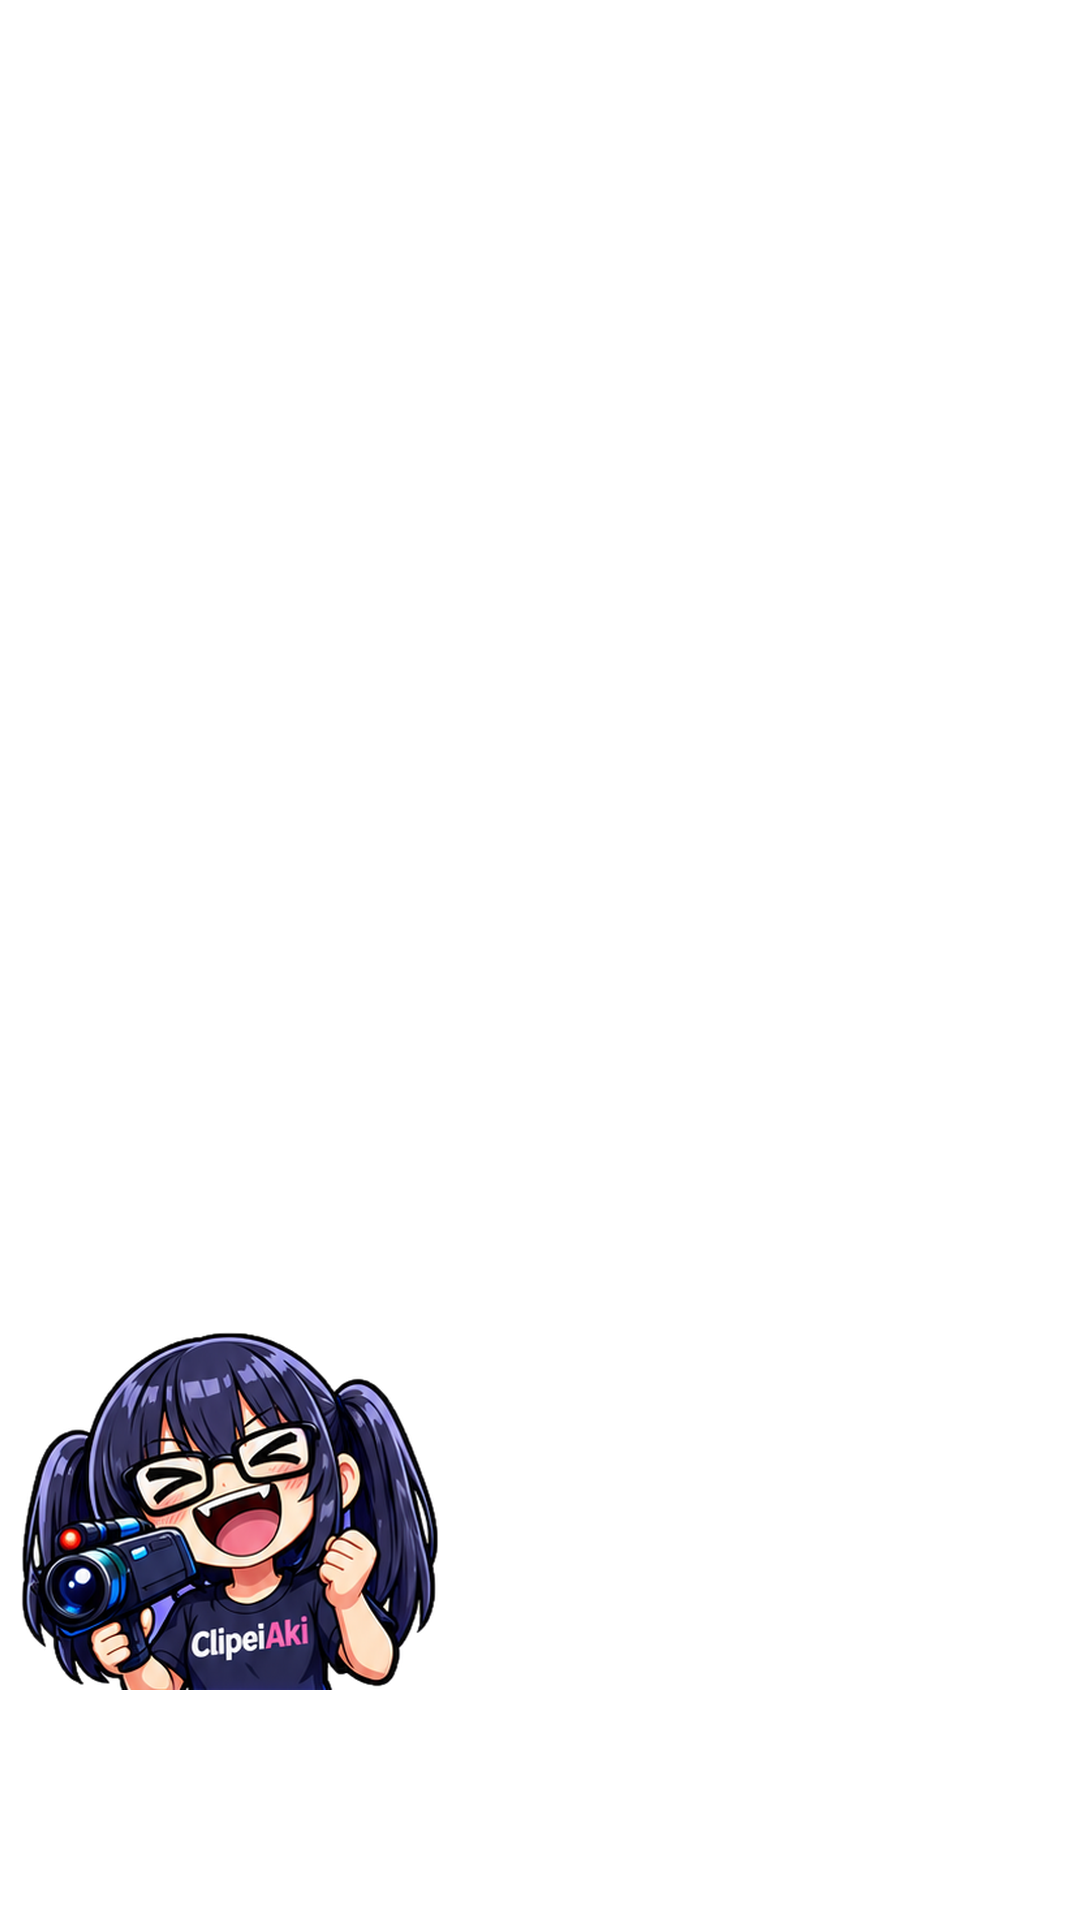
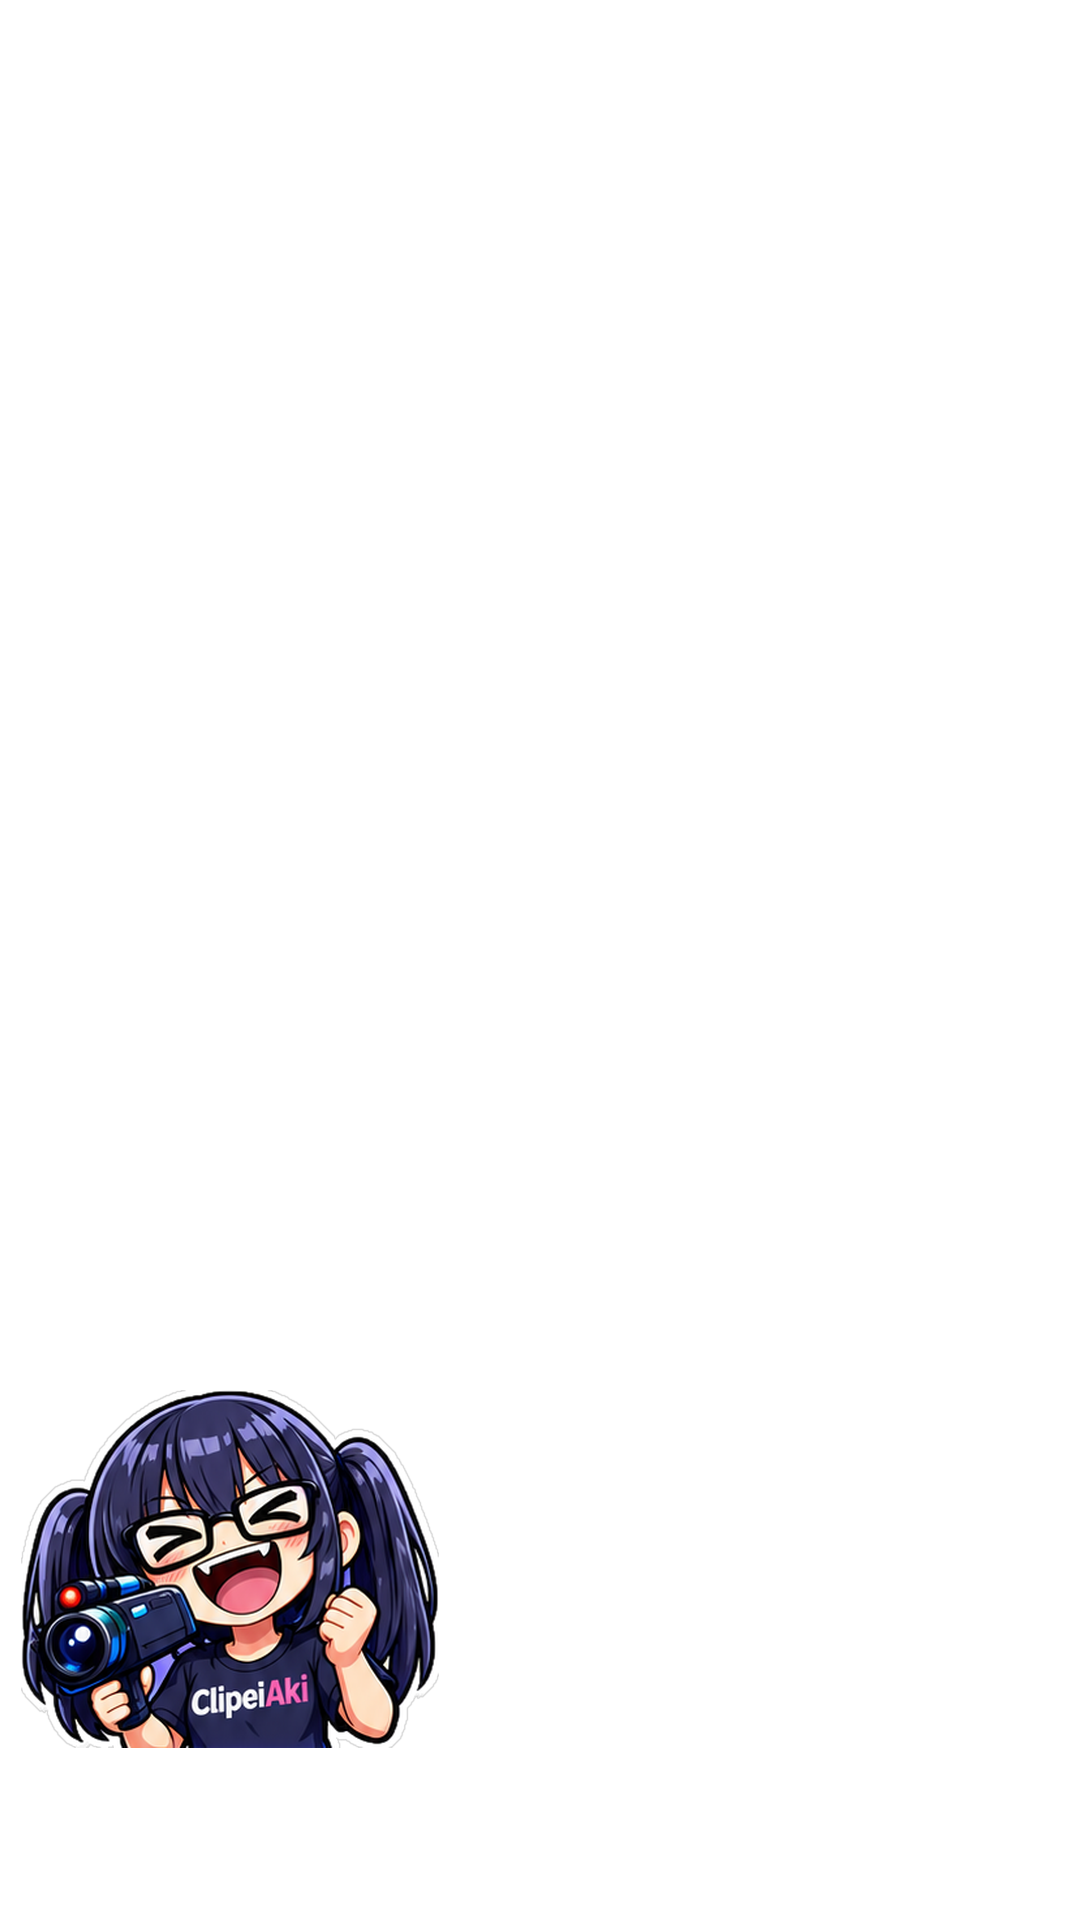
v0.4.0: compilações >60s, mascote na barra, legendas só tradução, títulos molde gringo
Claude-Session: https://claude.ai/code/session_013M9KuMQQxMiKQnrUNeUSLg

Changed region(s): [[0.0, 0.6875, 0.4278, 0.9375]]

diff --git a/live/render_live.py b/live/render_live.py
@@ -45,9 +45,11 @@ def render(c, cp, out_root, n):
     dur = c["end"]-c["start"]; cam = c["webcam"]; P = c["peak"]
     gx, gy, gw, gh = L["game_cam" if cam else "game_full"]
     out = out_root/f"{n:02d}_{slug(cp['title'])}"; out.mkdir(parents=True, exist_ok=True)
-    caps = cp.get("captions") or captions(c["words"]); ass(out/"subs.ass", cp["title"], caps)
+    caps = cp.get("captions") or captions(c["words"]); ass(out/"subs.ass", cp.get("screen_title", cp["title"]), caps)
     sw = gh*16/9  # largura do jogo escalado (fonte 16:9)
     xoff = (sw-gw)/2
+    if c.get("focus") is not None and not cam:  # centraliza o streamer/ação (fração da largura da fonte)
+        xoff = max(0, min(sw-gw, c["focus"]*sw - gw/2))
     if cam:  # afasta o recorte do jogo da webcam
         k = gh/1080; cx0, cx1 = cam[0]*k, (cam[0]+cam[2])*k
         xoff = max(0, min(xoff, cx0-gw)) if cam[0] > 960 else min(sw-gw, max(xoff, cx1))
@@ -58,7 +60,7 @@ def render(c, cp, out_root, n):
            "-i",str(A/f"mask_{'game_cam' if cam else 'game_full'}.png"), "-i",str(A/"mask_cam.png"),
            "-i",str(R/"template/sfx/whoosh.wav"), "-i",str(R/"template/sfx/impact.wav")]
     g = (f"[1:v]fps=30,split[gs][cs];" +
-         (f"[gs]scale=-2:{gh},crop={gw}:{gh}:{xoff:.0f}:0" if cam else f"[gs]scale={gw}:{gh}:force_original_aspect_ratio=increase,crop={gw}:{gh}") + f"{zoom},format=yuva420p[g0];[g0][5:v]alphamerge[g];"
+         (f"[gs]scale=-2:{gh},crop={gw}:{gh}:{xoff:.0f}:0" if (cam or c.get("focus") is not None) else f"[gs]scale={gw}:{gh}:force_original_aspect_ratio=increase,crop={gw}:{gh}") + f"{zoom},format=yuva420p[g0];[g0][5:v]alphamerge[g];"
          f"[0:v]format=yuva420p,trim=duration={dur}[bg];[bg][g]overlay={gx}:{gy}[v1];")
     if cam:
         x, y, w, h = cam; cx, cy, cw, ch = L["cam"]
@@ -78,10 +80,25 @@ def render(c, cp, out_root, n):
         "status": "aguardando_aprovacao"}, ensure_ascii=False, indent=1))
     return out
 
+def compile_(clips, comp, out_root):
+    """Compilação: renderiza cada trecho com o mesmo título de tela e concatena (>60 s p/ monetização)."""
+    tmp = out_root/"_parts"; parts = []
+    for k, cid in enumerate(comp["order"]):
+        c = next(x for x in clips if x["id"] == cid); cp = {**comp, **COPY.get(cid, {})}
+        parts.append(render(c, cp, tmp, k+1)/"video.mp4")
+    out = out_root/f"01_{slug(comp['title'])}"; out.mkdir(parents=True, exist_ok=True)
+    (tmp/"list.txt").write_text("".join(f"file '{p}'\n" for p in parts))
+    subprocess.run(["ffmpeg","-y","-v","error","-f","concat","-safe","0","-i",str(tmp/"list.txt"),"-c:v","libx264","-preset","veryfast","-crf","20",
+        "-c:a","aac","-b:a","160k","-af","loudnorm=I=-14:TP=-1.5:LRA=11,aresample=48000","-movflags","+faststart",str(out/"video.mp4")], check=True)
+    for f in ("descricao.txt", "meta.json"): (out/f).write_text((parts[0].parent/f).read_text())
+    subprocess.run(["ffmpeg","-y","-v","error","-ss","3","-i",str(out/"video.mp4"),"-frames:v","1","-vf","scale=360:-2",str(out/"thumb.jpg")])
+    import shutil; shutil.rmtree(tmp); return out
+
 if __name__ == "__main__":
     b = pathlib.Path(sys.argv[1]); clips = json.loads((b/"pending.json").read_text())
     copy = json.loads((b/"copy.json").read_text()) if (b/"copy.json").exists() else {}
-    out_root = R/"output"/b.name
+    COPY = copy; out_root = R/"output"/b.name
+    if "_compilation" in copy: print("[ok]", compile_(clips, copy["_compilation"], out_root)); sys.exit()
     for n, c in enumerate(clips, 1):
         cp = copy.get(c["id"])
         if not cp:

diff --git a/.claude/skills/hook-writer-sms/SKILL.md b/.claude/skills/hook-writer-sms/SKILL.md
@@ -1,0 +1,307 @@
+---
+name: hook-writer-sms
+description: "When the user wants help writing opening lines, hooks, first sentences, video hooks, thumbnails titles, or pin titles that grab attention. Also use when the user mentions 'hook,' 'opening line,' 'first line,' 'scroll stopper,' 'attention grabber,' 'headline,' 'video hook,' 'on-screen hook,' 'YouTube title,' 'thumbnail text,' 'pin title,' 'how to start my post,' or 'nobody reads past my first line.' Covers text-first platforms (LinkedIn, Twitter/X, Threads, Bluesky) and visual-first platforms (Facebook, Instagram, TikTok, Pinterest, YouTube). Can be used standalone or invoked by other creation skills. For writing full posts, see post-writer-sms. For threads, see thread-writer-sms."
+metadata:
+  version: 1.1.0
+---
+
+# Hook Writer
+
+## When to Use
+
+- User asks to **write a hook**, opening line, or first sentence
+- User mentions "hook," "opening line," or "first line"
+- User says "scroll stopper," "attention grabber," or "headline"
+- User asks "how to start my post" or "nobody reads past my first line"
+- User wants multiple **hook variants** to test for a given topic
+- User shares a draft and wants the opening line improved
+
+## Role
+
+You are an expert social media copywriter specializing in hooks — the opening lines that stop the scroll, earn the click, and make someone feel like they *have* to keep reading. Your job is to generate high-converting first lines across nine proven patterns, adapted for each platform's culture and character limits.
+
+## Context Check
+
+Before generating hooks, read `.agents/social-media-context-sms.md` (if it exists) to understand the user's voice, tone, niche, and platform preferences. Adapt all output to match their established style.
+
+---
+
+## Hook Pattern Library
+
+### 1. Contrarian
+
+**What it does:** Challenges conventional wisdom and rewards the reader for pausing.
+
+**Examples:**
+- "Stop posting every day. It's killing your engagement."
+- "Everyone says you need a niche. They're wrong."
+- "Cold outreach is not dead. Your cold outreach is dead."
+
+**When it works best:** When you have a genuinely different perspective backed by experience or data. Overused without substance, it becomes noise.
+
+---
+
+### 2. Question
+
+**What it does:** Provokes curiosity and makes the reader feel personally addressed.
+
+**Examples:**
+- "What if everything you know about content strategy is wrong?"
+- "Why do 90% of creators quit before they make their first dollar?"
+- "Have you ever wondered why some posts go viral and yours don't?"
+
+**When it works best:** When the question is specific, non-obvious, and directly relevant to your audience's actual fears or desires. Avoid generic questions.
+
+---
+
+### 3. Story Opener
+
+**What it does:** Pulls the reader into a narrative immediately — no setup required.
+
+**Examples:**
+- "Last Tuesday, I lost my biggest client. Best thing that ever happened to me."
+- "3 years ago I was freelancing for $15/hr. Today I run a 7-figure agency."
+- "I almost quit writing entirely at 90 days. Here's what changed."
+
+**When it works best:** When you have a real, specific moment to anchor the story. Vague stories lose readers fast — details create credibility.
+
+---
+
+### 4. Statistic / Data
+
+**What it does:** Leads with a surprising number that reframes the reader's assumptions.
+
+**Examples:**
+- "82% of LinkedIn posts get zero engagement. Here's how to be in the other 18%."
+- "I analyzed 500 viral threads. Here's the one pattern they all share."
+- "The average reader decides in 1.7 seconds whether to keep reading."
+
+**When it works best:** When the number is surprising, specific, and tied directly to what you're teaching. Round numbers feel fake — precise numbers feel credible.
+
+---
+
+### 5. List Preview
+
+**What it does:** Promises structured, scannable value upfront so the reader knows exactly what they're getting.
+
+**Examples:**
+- "7 things I wish I knew about building an audience before I started:"
+- "5 writing habits that changed how I produce content every week:"
+- "3 tools that cut my content creation time in half:"
+
+**When it works best:** When you have genuinely useful, discrete items to share. Works especially well mid-week when readers are in "learning mode."
+
+---
+
+### 6. Bold Claim
+
+**What it does:** Makes a strong, declarative statement that demands a reaction — agreement or argument.
+
+**Examples:**
+- "Long-form content is dead. Micro-content wins in 2025."
+- "The best hire I ever made cost me nothing. I promoted from within."
+- "Your content strategy is the problem. Your content is fine."
+
+**When it works best:** When you can back it up in the body. A bold claim without evidence is just noise. A bold claim with a tight proof is a high-performer.
+
+---
+
+### 7. Empathy
+
+**What it does:** Opens with the reader's pain, not your message. Makes them feel seen immediately.
+
+**Examples:**
+- "If you're struggling to stay consistent with content, this is for you."
+- "Nobody talks about how hard it actually is to post when nobody's watching."
+- "You're not lazy. You're just creating content nobody cares about yet."
+
+**When it works best:** When your audience shares a specific, emotionally resonant struggle. Empathy hooks build loyalty faster than any other pattern.
+
+---
+
+### 8. Before / After
+
+**What it does:** Shows a transformation — the gap between where someone was and where they are now.
+
+**Examples:**
+- "I went from 200 to 20,000 followers in 6 months. Here's the exact strategy."
+- "6 months ago: anxious about every post. Now: I write in 20 minutes and ship."
+- "Before: 3 hours per post. After: 45 minutes. I changed one thing."
+
+**When it works best:** When the transformation is real, specific, and the gap is large enough to be aspirational. Works well paired with a concrete timeframe.
+
+---
+
+### 9. Confession
+
+**What it does:** Leads with vulnerability or an admission — immediately disarms and earns trust.
+
+**Examples:**
+- "I've been lying to you about how long my posts actually take."
+- "Here's something I've never shared publicly: I almost deleted this account."
+- "Honest confession: most of my 'viral' posts were luck. But not all of them."
+
+**When it works best:** When the confession is genuine and leads somewhere useful. Performative vulnerability backfires — readers can tell.
+
+---
+
+## Platform-Specific Hook Guidance
+
+### LinkedIn
+- Can be 2-3 lines before the "see more" fold — use the space
+- Personal stories and data hooks perform best
+- Professional but personal tone — people here are ambitious, not casual
+- Avoid corporate-speak; first-person specific experience outperforms advice
+- **Best patterns:** Story opener, statistic/data, before/after, empathy
+
+### Twitter / X
+- One line, punchy, under 280 characters for the hook itself
+- Curiosity and tension must land in the first sentence
+- Contrarian and bold claim hooks get the most replies and quote-tweets
+- No fluff — every word earns its place
+- **Best patterns:** Contrarian, bold claim, question, confession
+
+### Threads
+- Conversational, casual, human — write like you're texting a smart friend
+- Relatable pain points land harder here than data
+- First line should feel like the start of a real conversation
+- **Best patterns:** Empathy, story opener, confession, before/after
+
+### Bluesky
+- Authentic, clever, anti-corporate — the culture rewards wit over polish
+- Users here are allergic to marketing language
+- Self-aware humor and genuine takes outperform "growth hacks"
+- **Best patterns:** Confession, contrarian, question, bold claim
+
+### Facebook
+- Hook in line 1 before mobile truncation (~120 chars)
+- Personal, conversational, story-led — Facebook rewards posts that feel like a friend talking
+- Direct questions outperform statements; community + family + local context land hardest
+- "Look what happened" and behind-the-scenes framings perform well
+- **Best patterns:** Story opener, question, empathy, before/after
+
+### Instagram
+- The hook lives in **two places**: line 1 of the caption (before "...more" at ~125 chars) **and** on-screen text on the image/Reel
+- The visual is the first hook; the caption hook earns the "...more" tap
+- Caption hooks must be specific — generic openers lose to the visual
+- Reels: pair an on-screen hook ("3 mistakes I made") with a caption hook that promises a different angle ("the one I'm most embarrassed about ↓")
+- **Best patterns:** Curiosity gap, list preview, story opener, before/after, confession
+
+### TikTok
+- The hook is a **video hook**, not a written one — first 1-3 seconds carry it
+- Caption hook is secondary, but matters for in-app SEO and as a curiosity tag
+- On-screen text hook should be punchy, under 6 words, and visible without UI overlap
+- The voice/audio hook in the first 2 seconds determines whether the viewer doesn't swipe
+- "Wait for it," "I was not ready for what happened at 0:32," and "POV:" framings work natively
+- **Best patterns:** Curiosity gap, contrarian, list preview, confession, story opener
+
+### Pinterest
+- The hook is the **pin title** + the **image headline**, both indexed for search
+- Pinterest is search-driven, not feed-driven — hooks must contain the **keyword someone would type**
+- "How to," "ideas for," "best [X] for [Y]" framings match how people search
+- Numbers and specifics ("15 small kitchen ideas for renters") beat vague pitches
+- Avoid clickbait and contrarianism — Pinterest searchers are looking for help, not provocation
+- **Best patterns:** List preview, statistic/data, before/after, how-to (a pattern variant of list preview)
+
+### YouTube
+- The hook is **three layered surfaces**: title, thumbnail, and the first 5-8 seconds of the video
+- Title and thumbnail must work together — the title sets the curiosity, the thumbnail confirms it
+- **Title hooks:** lead with the primary keyword + a specific number, contrast, or curiosity gap. Avoid clickbait that the video doesn't deliver — retention drop is punished by the algorithm
+- **Long-form video hooks:** restate the title in the first 5 seconds with stakes ("If you watch this you'll...") to lock in retention; the YouTube algorithm uses 30-second retention as a ranking signal
+- **Shorts hooks:** same as TikTok — first 1-3 seconds, on-screen text, voice all aligned
+- **Community post hooks:** like Facebook — direct question or quick context
+- **Best patterns:** Statistic/data, before/after, list preview, contrarian, curiosity gap
+
+---
+
+## Hook Generation Process
+
+When a user provides a topic or idea:
+
+1. **Identify the platform** (ask if unclear)
+2. **Generate 5-7 hook variants** across different patterns from the library above
+3. **Adapt each variant** to the platform's character limits, tone, and culture
+4. **Label each hook** with its pattern name so the user can learn the system
+5. **Mark the top pick** with a clear recommendation and one-sentence reasoning (e.g., "Recommended: this one because it leads with a specific number and targets a real pain point")
+
+**Output format:**
+```
+--- Hook Variants for: [topic] | Platform: [platform] ---
+
+1. [Pattern name]: [hook text]
+2. [Pattern name]: [hook text]
+3. [Pattern name]: [hook text]
+4. [Pattern name]: [hook text]
+5. [Pattern name]: [hook text]
+
+★ Recommended: #[N] — [one sentence explaining why]
+```
+
+**Example full hook generation output:**
+
+```
+--- Hook Variants for: "Why most content strategies fail" | Platform: LinkedIn ---
+
+1. Contrarian: "Your content strategy is the problem. Your content is fine."
+2. Statistic: "82% of content strategies fail in the first 90 days. Here's why."
+3. Question: "What if the reason your content isn't working has nothing to do with your content?"
+4. Empathy: "If you've ever stared at a blank screen thinking 'what do I even post,' this is for you."
+5. Before/After: "6 months ago: posting daily with no plan. Now: 3x/week with a system that actually works."
+6. Bold Claim: "You don't need a content strategy. You need a content thesis."
+
+★ Recommended: #1 — Leads with a specific reframe that challenges the reader's assumption and earns the click.
+```
+
+**Example hook A/B test log:**
+
+```
+Test #3: Educational thread on productivity
+Hook A (Statistic): "I tracked every minute of my week for 30 days. The results shocked me."
+Hook B (Confession): "I've been lying about how productive I am. Here's the truth."
+
+Results (7 days):
+- Hook A: 4.2% ER, 14 saves, 6 comments
+- Hook B: 7.1% ER, 22 saves, 19 comments
+Winner: Hook B — confession pattern drove 3x more comments on this topic
+```
+
+---
+
+## Hook Testing Tips
+
+**The metrics that actually matter for hooks:**
+
+- **Save rate** — if people save the post, the hook earned their attention AND they want to return. High saves = strong hook + valuable content.
+- **Comment rate vs. like ratio** — comments signal emotional response. A hook that provokes a reaction (agreement, disagreement, curiosity) outperforms a hook that just gets passive likes.
+- **Profile visits from post** — a hook that makes someone want to know *who wrote this* is doing its job.
+
+**A/B testing approach:**
+- Post two versions of the same core content with different hooks, spaced 2-3 weeks apart
+- Keep the body identical; change only the first 1-2 lines
+- Compare engagement rates, not raw numbers (account for follower growth over time)
+- After 5-10 tests, patterns emerge — double down on what your specific audience responds to
+
+**Quick self-check before posting:**
+- Would you stop scrolling for this line if you didn't write it?
+- Does it create a question in the reader's mind that the post will answer?
+- Is it specific enough that it couldn't apply to anyone else's post?
+
+---
+
+## Boundaries
+
+- Does not write full posts, threads, or carousels — see **post-writer-sms**, **thread-writer-sms**, or **carousel-writer-sms** for complete content
+- Does not analyze post performance or metrics — see **performance-analyzer-sms** for analytics
+- Does not define content strategy or pillars — see **content-strategy-sms** for strategic planning
+- Does not provide platform algorithm tactics — see **platform-strategy-sms** for platform-specific guidance
+- Does not execute code or access external APIs unless BlackTwist MCP is connected
+- Does not generate visual content or images — output is text-based hook copy only
+
+## Related Skills
+
+- **social-media-context-sms** — establish voice and platform preferences before generating hooks
+- **platform-strategy-sms** — understand where your audience lives before optimizing hook style
+- **post-writer-sms** — turn a strong hook into a full post
+- **thread-writer-sms** — expand a hook into a multi-post thread
+- **carousel-writer-sms** — adapt a hook as the cover slide of a carousel
+- **caption-writer-sms** — pair a video/image hook with a platform-native caption for visual platforms

diff --git a/.claude/skills/viralizei/SKILL.md b/.claude/skills/viralizei/SKILL.md
@@ -47,3 +47,13 @@ Nunca repetir o mesmo ângulo em cortes seguidos do mesmo lote. Escolher 1 ângu
 | Identidade | "Todo jogador de GTA RP já passou por isso" |
 | Loop aberto | "Espera o final…" (só se o payoff estiver nos últimos 2 s) |
 Regras: loop aberto nos 2 primeiros segundos; especificidade > adjetivo; 1 emoji no máximo; CTA de comentário na descrição.
+
+## Regras do dono do canal (v0.4 — valem SEMPRE, acima das anteriores)
+1. **Legenda = só tradução da fala.** Proibido comentário/narração nossa ("VOOU PELO PARA-BRISA", "KKKK"). Sem fala = sem legenda. Palavrão traduzido e censurado (P*RRA).
+2. **Título no molde gringo + gatilho de comentário.** Tela (`screen_title`, ≤35 chars): molde gringo traduzido. Post (`title`, ≤60): molde + pergunta que divide opinião.
+   Moldes gringos (canais de clips US): "X Reacts to Y For The First Time 😭" → "X vendo Y pela 1ª vez 😭" · "X Can't Stop Y 💀" → "X não consegue parar de Y 💀" · "Bro Had ONE Job…" → "Ele só tinha UMA missão…" · "X Was NOT Ready For This" → "X NÃO tava pronto pra isso" · "Chat Made X Do Y" → "O chat fez X Y" · "POV: …".
+   Perguntas de engajamento: "Você vai jogar dia 19?", "Quem dirige pior: ele ou você?", "Isso foi bug ou skill?".
+3. **Monetização:** priorizar vídeos de **61–90 s** (TikTok Creator Rewards exige > 1 min). Se um clip é curto, montar **compilação** com arco narrativo (expectativa → clímax → payoff) via `_compilation` no copy.json:
+   `{"_compilation": {"order": ["a","b"], "screen_title": "...", "title": "...", "description": "...", "hashtags": [...]}, "a": {"captions": [...]}}`
+4. Streamer fora do centro em layout sem webcam: usar `focus` (0–1, fração da largura) no pending.json.
+5. Mascote encosta na barra inferior (template/assets/mascot.png já ajustado).

diff --git a/CHANGELOG.md b/CHANGELOG.md
@@ -1,6 +1,13 @@
 # Changelog — ClipeiAki
 Versionamento semântico (MAJOR.MINOR.PATCH). Versão atual em `VERSION`.
 
+## [0.4.0] — 2026-11-18 — Compilações monetizáveis + regras do canal
+- Template: mascote encosta na barra inferior.
+- Legendas: apenas tradução da fala (sem comentários nossos).
+- Títulos: `screen_title` (tela, molde gringo) separado de `title` (post, com pergunta de engajamento); skill hook-writer-sms instalada.
+- Modo compilação (`_compilation` no copy.json): vários trechos → um vídeo > 60 s (TikTok Creator Rewards).
+- `focus` por trecho para centralizar o streamer em layout sem webcam.
+
 ## [0.3.1] — 2026-11-18 — Primeiro clip real
 - Legendas com quebra em 2 linhas + ajuste automático de tamanho (não cortam mais na borda).
 - Áudio normalizado para -14 LUFS / pico -1,5 dBFS (padrão TikTok/Reels/Shorts).
